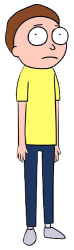
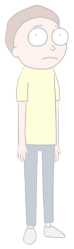
Increased opacity of pictures, created pages for the Questions and Settings

diff --git a/build/app.js b/build/app.js
@@ -118,6 +118,12 @@ class Button {
                 if (this.getButtonName() === "HighScore") {
                     new HighScore(document.getElementById("canvas"));
                 }
+                if (this.getButtonName() === "Settings") {
+                    new Settings(document.getElementById("canvas"));
+                }
+                if (this.getButtonName() === "QandA") {
+                    new GeneralQuestions(document.getElementById("canvas"));
+                }
                 if (this.getButtonName() === "Shop") {
                     new Shop(document.getElementById("canvas"));
                 }
@@ -175,7 +181,7 @@ class QuestionsAnswersButton extends Button {
 class SettingsButton extends Button {
     constructor(xPos, yPos) {
         super(xPos, yPos);
-        this.name = "Shop";
+        this.name = "Settings";
         this.image = Start.loadNewImage("./assets/img/buttons/settings-button.png");
     }
 }
@@ -517,6 +523,33 @@ class Player extends GameItem {
 }
 class World {
 }
+class GeneralQuestions {
+    constructor(canvasId) {
+        this.loop = () => {
+            this.draw();
+            requestAnimationFrame(this.loop);
+        };
+        this.mouseHandler = (event) => { };
+        this.canvas = canvasId;
+        this.canvas.width = window.innerWidth;
+        this.canvas.height = window.innerHeight;
+        this.buttons = [];
+        this.buttonMaker();
+        this.loop();
+        document.addEventListener("click", this.mouseHandler);
+    }
+    draw() {
+        const ctx = this.canvas.getContext("2d");
+        ctx.clearRect(0, 0, this.canvas.width, this.canvas.height);
+        this.buttons.forEach((button) => {
+            button.draw(ctx);
+        });
+        Start.writeTextToCanvas(ctx, "Questions", 60, this.canvas.width / 2, 80, "center");
+    }
+    buttonMaker() {
+        this.buttons.push(new BackToStart((this.canvas.width / 5) * 0.05, (this.canvas.height / 5) * 0.09));
+    }
+}
 class HighScore {
     constructor(canvasId) {
         this.loop = () => {
@@ -562,6 +595,8 @@ class HighScore {
     buttonMaker() {
         this.buttons.push(new BackToStart((this.canvas.width / 7) * 0.09, (this.canvas.height / 3) * 0.08));
     }
+}
+class InGameQuestions {
 }
 class QuestionAndAnswer {
     constructor(canvasId) {
@@ -609,6 +644,33 @@ class QuestionAndAnswer {
     }
     buttonMaker() {
         this.buttons.push(new BackToStart((this.canvas.width / 7) * 0.09, (this.canvas.height / 3) * 0.08));
+    }
+}
+class Settings {
+    constructor(canvasId) {
+        this.loop = () => {
+            this.draw();
+            requestAnimationFrame(this.loop);
+        };
+        this.mouseHandler = (event) => { };
+        this.canvas = canvasId;
+        this.canvas.width = window.innerWidth;
+        this.canvas.height = window.innerHeight;
+        this.buttons = [];
+        this.buttonMaker();
+        this.loop();
+        document.addEventListener("click", this.mouseHandler);
+    }
+    draw() {
+        const ctx = this.canvas.getContext("2d");
+        ctx.clearRect(0, 0, this.canvas.width, this.canvas.height);
+        this.buttons.forEach((button) => {
+            button.draw(ctx);
+        });
+        Start.writeTextToCanvas(ctx, "Settings", 60, this.canvas.width / 2, 80, "center");
+    }
+    buttonMaker() {
+        this.buttons.push(new BackToStart((this.canvas.width / 5) * 0.05, (this.canvas.height / 5) * 0.09));
     }
 }
 class Shop {

diff --git a/src/gameScreens/GeneralQuestions.ts b/src/gameScreens/GeneralQuestions.ts
@@ -1,0 +1,74 @@
+class GeneralQuestions {
+
+    private canvas: HTMLCanvasElement;
+    private buttons: Button[];
+
+    public constructor(canvasId: HTMLCanvasElement) {
+        // Construct all of the canvas
+        this.canvas = canvasId;
+        this.canvas.width = window.innerWidth;
+        this.canvas.height = window.innerHeight;
+
+        // The button array
+        this.buttons = [];
+
+        // Calls button maker function
+        this.buttonMaker()
+
+        // Calls the loop
+        this.loop();
+
+        // Add a mouse event
+        document.addEventListener("click", this.mouseHandler);
+    }
+
+          /**
+   * Method for the Game Loop
+   */
+  public loop = () => {
+    this.draw();
+
+    // in the first loop no images are loaded
+    requestAnimationFrame(this.loop);
+  };
+
+      /**
+   * Draws all the necessary elements to the canvas
+   */
+  public draw() {
+    const ctx = this.canvas.getContext("2d");
+
+    //Clears the canvas every frame
+    ctx.clearRect(0, 0, this.canvas.width, this.canvas.height);
+
+    this.buttons.forEach((button) => {
+      button.draw(ctx);
+    });
+
+    //The text at the top center.
+    Start.writeTextToCanvas(
+        ctx,
+        "Questions",
+        60,
+        this.canvas.width / 2,
+        80,
+        "center"
+      );
+}
+
+private buttonMaker() {
+    this.buttons.push(
+      new BackToStart(
+        (this.canvas.width / 5) * 0.05,
+        (this.canvas.height / 5) * 0.09
+      )
+    );
+
+      }
+
+/**
+   * Method to handle the mouse event
+   * @param {MouseEvent} event - mouse event
+   */
+  public mouseHandler = (event: MouseEvent) => {};
+}

diff --git a/src/gameScreens/Settings.ts b/src/gameScreens/Settings.ts
@@ -1,0 +1,77 @@
+class Settings {
+
+    private canvas: HTMLCanvasElement;
+    private buttons: Button[];
+
+
+    public constructor(canvasId: HTMLCanvasElement){
+        // Construct all of the canvas
+        this.canvas = canvasId;
+        this.canvas.width = window.innerWidth;
+        this.canvas.height = window.innerHeight;
+
+        // The button array
+        this.buttons = [];
+
+        // Calls button maker function
+        this.buttonMaker()
+
+        // Calls the loop
+        this.loop();
+
+        // Add a mouse event
+        document.addEventListener("click", this.mouseHandler);
+    }
+
+      /**
+   * Method for the Game Loop
+   */
+  public loop = () => {
+    this.draw();
+
+    // in the first loop no images are loaded
+    requestAnimationFrame(this.loop);
+  };
+
+  
+
+  /**
+   * Draws all the necessary elements to the canvas
+   */
+  public draw() {
+    const ctx = this.canvas.getContext("2d");
+
+    //Clears the canvas every frame
+    ctx.clearRect(0, 0, this.canvas.width, this.canvas.height);
+
+    this.buttons.forEach((button) => {
+      button.draw(ctx);
+    });
+
+    //The text at the top center.
+    Start.writeTextToCanvas(
+        ctx,
+        "Settings",
+        60,
+        this.canvas.width / 2,
+        80,
+        "center"
+      );
+}
+
+private buttonMaker() {
+    this.buttons.push(
+      new BackToStart(
+        (this.canvas.width / 5) * 0.05,
+        (this.canvas.height / 5) * 0.09
+      )
+    );
+
+      }
+
+/**
+   * Method to handle the mouse event
+   * @param {MouseEvent} event - mouse event
+   */
+  public mouseHandler = (event: MouseEvent) => {};
+}

diff --git a/src/Buttons/Button.ts b/src/Buttons/Button.ts
@@ -45,10 +45,17 @@ abstract class Button {
       event.clientY >= this.getButtonYPos() &&
       event.clientY <= this.getButtonYPos() + this.getButtonImageHeight()
     ) {
-      // looks if the buttons name macth and get you to the right page
+      // looks if the buttons name match and get you to the right page
       if (this.getButtonName() === "HighScore") {
         new HighScore(document.getElementById("canvas") as HTMLCanvasElement);
       } 
+      
+      if (this.getButtonName() === "Settings") {
+        new Settings(document.getElementById("canvas") as HTMLCanvasElement);
+      }
+      if (this.getButtonName() === "QandA") {
+        new GeneralQuestions(document.getElementById("canvas") as HTMLCanvasElement);
+      }
       if (this.getButtonName() === "Shop") {
         new Shop(document.getElementById("canvas") as HTMLCanvasElement);
       }

diff --git a/src/Buttons/SettingsButton.ts b/src/Buttons/SettingsButton.ts
@@ -3,7 +3,7 @@
 class SettingsButton extends Button {
   public constructor(xPos: number, yPos: number) {
     super(xPos, yPos);
-    this.name = "Shop";
+    this.name = "Settings";
     this.image = Start.loadNewImage("./assets/img/buttons/settings-button.png");
   }
 

diff --git a/src/gameScreens/IngameQuestions.ts b/src/gameScreens/IngameQuestions.ts
@@ -1,0 +1,3 @@
+class InGameQuestions {
+    
+}
